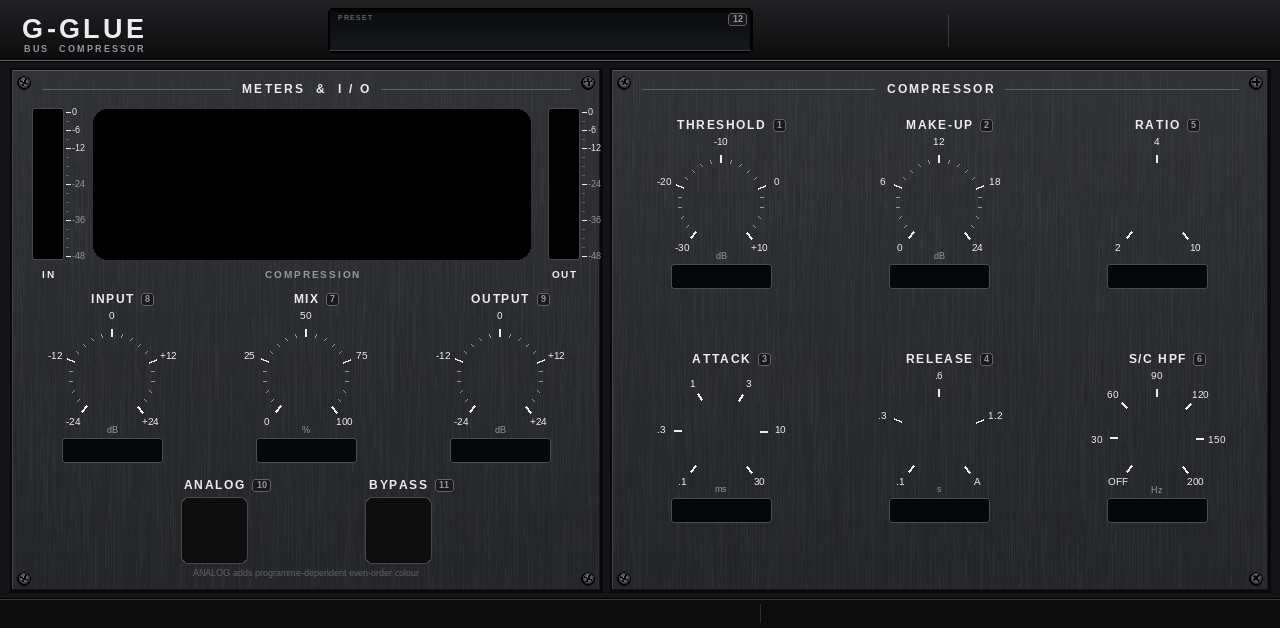
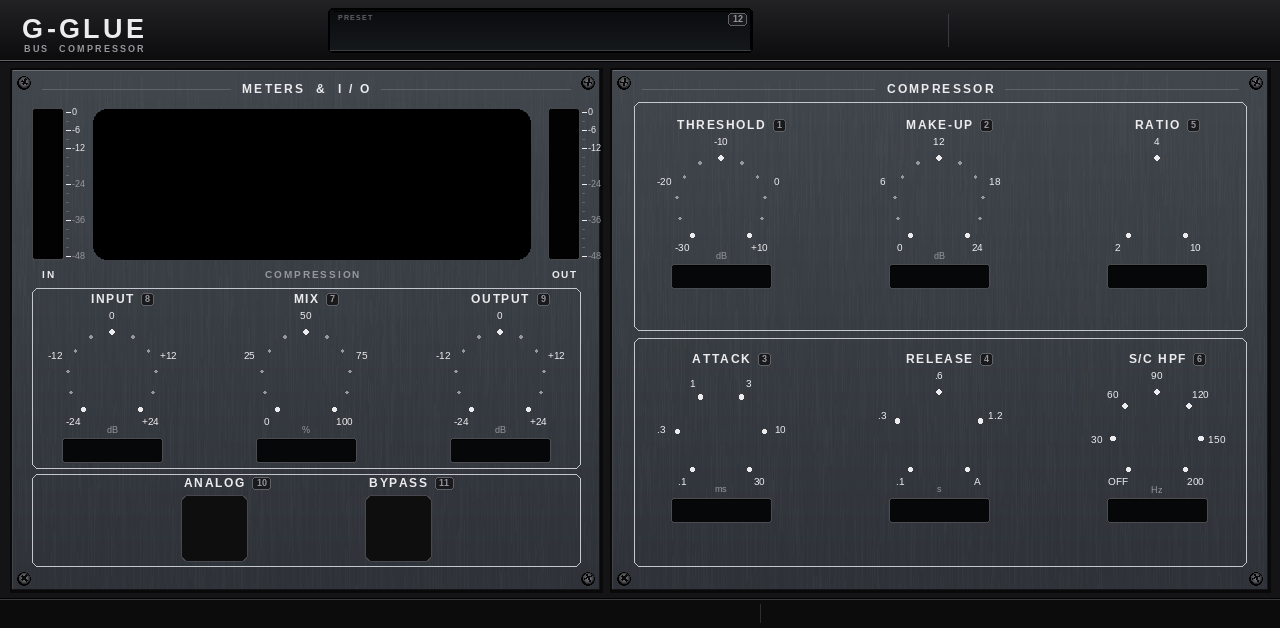
G-Glue MPC skin: classic large-format console styling
Slate blue-grey console modules, smooth ribbed grey knobs with large flat colour caps and white
pointer lines, printed dot scales, white legend frames around control groups, translucent square
push switches that light from behind. Original artwork, no third-party names or logos; controls,
wiring and MPC filmstrip rules unchanged.

Claude-Session: https://claude.ai/code/session_01XRqyjua6wzinB9NqNDDbhg

diff --git a/G-Glue/MPC/tools/make_skin.py b/G-Glue/MPC/tools/make_skin.py
@@ -48,7 +48,9 @@ def spaced(d, x, y, s, f, fill, track=1.0, anchor="l"):
     return total
 
 # ---------------------------------------------------------------- palette (console)
-EDGE, SEAM = (86, 88, 93), (9, 9, 10)
+EDGE, SEAM = (104, 110, 118), (9, 9, 10)
+SLATE_T, SLATE_B = (66, 71, 78), (47, 51, 57)               # console slate blue-grey
+FRAME = (196, 200, 206)                                     # white legend frames
 PRINT, DIM, FAINT = (236, 236, 238), (150, 152, 158), (96, 98, 104)
 LED_RED, LED_AMBER, LED_GREEN = (255, 58, 38), (255, 178, 42), (72, 224, 112)
 CAPS = {"red": (196, 50, 42), "blue": (46, 96, 172), "grey": (160, 162, 166), "green": (58, 138, 84),
@@ -83,7 +85,7 @@ SCALE = {"threshold": ["-30", "-20", "-10", "0", "+10"], "makeup": ["0", "6", "1
          "mix": ["0", "25", "50", "75", "100"], "input": ["-24", "-12", "0", "+12", "+24"], "output": ["-24", "-12", "0", "+12", "+24"]}
 STEPS = {"attack": 6, "release": 5, "ratio": 3, "scfilter": 7}
 UNITS = {"threshold": "dB", "makeup": "dB", "attack": "ms", "release": "s", "ratio": "", "scfilter": "Hz", "mix": "%", "input": "dB", "output": "dB"}
-SWITCHES = {"analog": ("ANALOG", LED_AMBER, 214, 500, 10), "bypass": ("BYPASS", LED_RED, 398, 500, 11)}   # square 60 px caps
+SWITCHES = {"analog": ("ANALOG", LED_AMBER, 214, 498, 10), "bypass": ("BYPASS", LED_RED, 398, 498, 11)}   # square 60 px caps
 SW = 60
 ANG0, ANG1 = -140.0, 140.0
 def ang_xy(cx, cy, r, deg):
@@ -99,46 +101,45 @@ TB = {"prev": (284, 12, 40, 36), "browse": (330, 10, 420, 40), "next": (756, 12,
 
 # ---------------------------------------------------------------- knobs (one filmstrip per cap colour)
 def knob_strip(cap):
-    s = KS * SS; c = s / 2; R = s * 0.40
+    """large-format console knob: smooth ribbed grey body, flat coloured cap, white pointer line"""
+    s = KS * SS; c = s / 2; R = s * 0.41
     base = Image.new("RGBA", (s, s), (0, 0, 0, 0))
     sh = Image.new("RGBA", (s, s), (0, 0, 0, 0))
-    ImageDraw.Draw(sh).ellipse([c - R * 1.04, c - R * 1.0 + s * 0.045, c + R * 1.04, c + R * 1.04 + s * 0.045], fill=(0, 0, 0, 200))
-    base.alpha_composite(sh.filter(ImageFilter.GaussianBlur(s * 0.035)))
+    ImageDraw.Draw(sh).ellipse([c - R * 1.02, c - R * 0.96 + s * 0.05, c + R * 1.02, c + R * 1.06 + s * 0.05], fill=(0, 0, 0, 210))
+    base.alpha_composite(sh.filter(ImageFilter.GaussianBlur(s * 0.03)))
     d = ImageDraw.Draw(base)
-    for yy in range(int(c - R), int(c + R) + 1):                # skirt: satin black, lit from above
+    for yy in range(int(c - R), int(c + R) + 1):                # cylinder side: grey, lit from above
         k = min(1.0, max(0.0, (yy - (c - R)) / (2 * R))); dx = math.sqrt(max(0.0, R * R - (yy - c) ** 2))
-        d.line([c - dx, yy, c + dx, yy], fill=rgba(mix((74, 75, 80), (10, 10, 11), k ** 0.8)))
-    rb = R * 0.80                                               # tapered body top
-    body = Image.new("RGBA", (s, s), (0, 0, 0, 0)); bd = ImageDraw.Draw(body)
-    for i in range(48, 0, -1):
-        t = i / 48; r = rb * t
-        bd.ellipse([c - r, c - r - rb * 0.05 * (1 - t), c + r, c + r - rb * 0.05 * (1 - t)], fill=rgba(mix((22, 22, 24), (58, 59, 63), (1 - t) ** 2)))
-    rc = R * 0.52                                               # coloured cap, slightly domed
+        d.line([c - dx, yy, c + dx, yy], fill=rgba(mix((92, 95, 100), (24, 25, 28), k ** 0.9)))
+    rt = R * 0.90                                               # flat top face
+    top = Image.new("RGBA", (s, s), (0, 0, 0, 0)); td = ImageDraw.Draw(top)
+    for i in range(50, 0, -1):
+        t = i / 50; r = rt * t
+        td.ellipse([c - r, c - r - rt * 0.04 * (1 - t), c + r, c + r - rt * 0.04 * (1 - t)], fill=rgba(mix((40, 42, 46), (74, 77, 82), (1 - t) ** 1.6)))
+    rc = R * 0.64                                               # large flat coloured cap
     col = CAPS[cap]
     capim = Image.new("RGBA", (s, s), (0, 0, 0, 0)); cd = ImageDraw.Draw(capim)
+    cd.ellipse([c - rc - SS, c - rc - SS, c + rc + SS, c + rc + SS], fill=rgba(mix(col, (0, 0, 0), 0.55)))
     for i in range(40, 0, -1):
         t = i / 40; r = rc * t
-        ox, oy = c - rc * 0.22 * (1 - t), c - rc * 0.30 * (1 - t)
-        cd.ellipse([ox - r, oy - r, ox + r, oy + r], fill=rgba(mix(mix(col, (0, 0, 0), 0.30), mix(col, (255, 255, 255), 0.42), (1 - t) ** 1.5)))
+        cd.ellipse([c - r, c - r - rc * 0.05 * (1 - t), c + r, c + r - rc * 0.05 * (1 - t)],
+                   fill=rgba(mix(mix(col, (0, 0, 0), 0.12), mix(col, (255, 255, 255), 0.30), (1 - t) ** 2.2)))
+    line_col = (24, 24, 26) if cap in ("grey", "yellow") else PRINT
     strip = Image.new("RGBA", (KS, KS * FRAMES), (0, 0, 0, 0))
     for f in range(FRAMES):
         im = base.copy(); d = ImageDraw.Draw(im)
         deg = ANG0 + (ANG1 - ANG0) * f / NUMFRAMES
-        for i in range(60):                                     # knurling ridges turn with the knob
-            a = deg + i * 6
-            x0, y0 = ang_xy(c, c, R * 0.86, a); x1, y1 = ang_xy(c, c, R * 1.0, a)
-            d.line([x0, y0, x1, y1], fill=(0, 0, 0, 170), width=int(SS * 0.9))
-            x0, y0 = ang_xy(c, c, R * 0.88, a + 2.2); x1, y1 = ang_xy(c, c, R * 0.99, a + 2.2)
-            d.line([x0, y0, x1, y1], fill=(255, 255, 255, 22), width=int(SS * 0.6))
-        im.alpha_composite(body)
+        for i in range(90):                                     # fine ribs on the side (turn with the knob)
+            a = deg + i * 4
+            x0, y0 = ang_xy(c, c, R * 0.92, a); x1, y1 = ang_xy(c, c, R * 0.995, a)
+            d.line([x0, y0, x1, y1], fill=(0, 0, 0, 90), width=max(1, int(SS * 0.6)))
+        im.alpha_composite(top); im.alpha_composite(capim)
         d = ImageDraw.Draw(im)
-        d.ellipse([c - rb, c - rb, c + rb, c + rb], outline=(255, 255, 255, 30), width=SS)
-        x0, y0 = ang_xy(c, c, rc * 1.05, deg); x1, y1 = ang_xy(c, c, rb * 0.97, deg)     # pointer on the body
-        d.line([x0, y0, x1, y1], fill=rgba(PRINT), width=int(SS * 2.6))
-        im.alpha_composite(capim)
-        d = ImageDraw.Draw(im)
-        x0, y0 = ang_xy(c, c, rc * 0.15, deg); x1, y1 = ang_xy(c, c, rc * 0.92, deg)     # line across the cap
-        d.line([x0, y0, x1, y1], fill=rgba(PRINT if cap in ("black", "blue", "red", "green") else (24, 24, 26)), width=int(SS * 1.8))
+        d.ellipse([c - rt, c - rt, c + rt, c + rt], outline=(255, 255, 255, 34), width=SS)
+        x0, y0 = ang_xy(c, c, rc * 1.06, deg); x1, y1 = ang_xy(c, c, rt * 0.97, deg)      # pointer on the grey top
+        d.line([x0, y0, x1, y1], fill=rgba(PRINT), width=int(SS * 2.4))
+        x0, y0 = ang_xy(c, c, rc * 0.10, deg); x1, y1 = ang_xy(c, c, rc * 0.94, deg)      # and across the cap
+        d.line([x0, y0, x1, y1], fill=rgba(line_col), width=int(SS * 2.0))
         strip.paste(im.resize((KS, KS), Image.LANCZOS), (0, f * KS))
     return strip
 
@@ -247,25 +248,23 @@ def led_tiles():
 
 # ---------------------------------------------------------------- switches and toolbar buttons
 def square_switch(on, led):
-    """console push switch: square cap with a lens that lights up"""
+    """console push switch: a square translucent coloured cap that lights up from behind"""
     s = SS; w = SW; im = Image.new("RGBA", (w * s, w * s), (0, 0, 0, 0)); d = ImageDraw.Draw(im)
-    d.rounded_rectangle([0, 0, w * s - 1, w * s - 1], radius=5 * s, fill=rgba((8, 8, 9)))
+    d.rounded_rectangle([0, 0, w * s - 1, w * s - 1], radius=4 * s, fill=rgba((6, 6, 7)))           # bezel cut-out
     off = int(1.5 * s) if on else 0
-    cap = Image.new("RGBA", im.size, (0, 0, 0, 0)); cd = ImageDraw.Draw(cap)
-    for yy in range(4 * s, (w - 4) * s):
-        k = (yy - 4 * s) / ((w - 8) * s); cd.line([4 * s, yy + off, (w - 4) * s, yy + off], fill=rgba(mix((92, 94, 99), (40, 41, 44), k)))
-    mk = Image.new("L", im.size, 0); ImageDraw.Draw(mk).rounded_rectangle([4 * s, 4 * s + off, (w - 4) * s, (w - 4) * s + off], radius=4 * s, fill=255)
-    im.paste(cap, (0, 0), mk); d = ImageDraw.Draw(im)
-    d.rounded_rectangle([4 * s, 4 * s + off, (w - 4) * s, (w - 4) * s + off], radius=4 * s, outline=(255, 255, 255, 46), width=s)
-    lx0, ly0, lx1, ly1 = 12 * s, 14 * s + off, (w - 12) * s, 26 * s + off
+    x0, y0, x1, y1 = 6 * s, 6 * s + off, (w - 6) * s, (w - 6) * s + off
     if on:
-        g = Image.new("RGBA", im.size, (0, 0, 0, 0)); ImageDraw.Draw(g).rounded_rectangle([lx0 - 4 * s, ly0 - 4 * s, lx1 + 4 * s, ly1 + 4 * s], radius=4 * s, fill=rgba(led, 160))
+        g = Image.new("RGBA", im.size, (0, 0, 0, 0)); ImageDraw.Draw(g).rounded_rectangle([x0 - 3 * s, y0 - 3 * s, x1 + 3 * s, y1 + 3 * s], radius=4 * s, fill=rgba(led, 150))
         im.alpha_composite(g.filter(ImageFilter.GaussianBlur(4 * s))); d = ImageDraw.Draw(im)
-        d.rounded_rectangle([lx0, ly0, lx1, ly1], radius=2 * s, fill=rgba(mix(led, (255, 255, 255), 0.25)))
-        d.rounded_rectangle([lx0 + 2 * s, ly0 + s, lx1 - 2 * s, ly0 + 4 * s], radius=s, fill=(255, 255, 255, 120))
-    else:
-        d.rounded_rectangle([lx0, ly0, lx1, ly1], radius=2 * s, fill=rgba(mix(led, (0, 0, 0), 0.78)))
-    d.rounded_rectangle([lx0, ly0, lx1, ly1], radius=2 * s, outline=(0, 0, 0, 200), width=s)
+    top_c = mix(led, (255, 255, 255), 0.45) if on else mix(led, (0, 0, 0), 0.62)
+    bot_c = led if on else mix(led, (0, 0, 0), 0.80)
+    cap = Image.new("RGBA", im.size, (0, 0, 0, 0)); cd = ImageDraw.Draw(cap)
+    for yy in range(y0, y1):
+        k = (yy - y0) / (y1 - y0); cd.line([x0, yy, x1, yy], fill=rgba(mix(top_c, bot_c, k)))
+    mk = Image.new("L", im.size, 0); ImageDraw.Draw(mk).rounded_rectangle([x0, y0, x1, y1], radius=3 * s, fill=255)
+    im.paste(cap, (0, 0), mk); d = ImageDraw.Draw(im)
+    d.rounded_rectangle([x0, y0, x1, y1], radius=3 * s, outline=(0, 0, 0, 180), width=s)
+    d.rounded_rectangle([x0 + 3 * s, y0 + 2 * s, x1 - 3 * s, y0 + 8 * s], radius=2 * s, fill=(255, 255, 255, 70 if on else 26))   # gloss
     return im.resize((w, w), Image.LANCZOS)
 
 def tool_button(lab, w, h, icon=None, accent=None):
@@ -301,12 +300,12 @@ def module(im, box, title):
     x0, y0, x1, y1 = box; d = ImageDraw.Draw(im)
     d.rectangle([x0 - 2, y0 - 2, x1 + 2, y1 + 2], fill=SEAM)
     face = Image.new("RGB", (x1 - x0, y1 - y0)); fd = ImageDraw.Draw(face)
-    for y in range(y1 - y0): fd.line([0, y, x1 - x0, y], fill=mix((50, 51, 55), (37, 38, 41), y / (y1 - y0)))
+    for y in range(y1 - y0): fd.line([0, y, x1 - x0, y], fill=mix(SLATE_T, SLATE_B, y / (y1 - y0)))
     random.seed(x0)
     tex = Image.new("RGBA", face.size, (0, 0, 0, 0)); td = ImageDraw.Draw(tex)
     for _ in range(face.size[0] * face.size[1] // 60):           # vertical brushing
         x = random.randrange(face.size[0]); y = random.randrange(face.size[1]); ln = random.randint(10, 90)
-        td.line([x, y, x, min(face.size[1], y + ln)], fill=(255, 255, 255, random.randint(3, 8)) if random.random() < 0.5 else (0, 0, 0, random.randint(5, 12)))
+        td.line([x, y, x, min(face.size[1], y + ln)], fill=(255, 255, 255, random.randint(2, 5)) if random.random() < 0.5 else (0, 0, 0, random.randint(3, 7)))
     face.paste(tex, (0, 0), tex)
     im.paste(face, (x0, y0)); d = ImageDraw.Draw(im)
     d.line([x0, y0, x1 - 1, y0], fill=EDGE); d.line([x0, y0, x0, y1 - 1], fill=(66, 68, 72))
@@ -359,13 +358,12 @@ def background():
         kx, ky = knob_centre(key)
         tw = spaced(d, kx, top - 22, cap, font(12), PRINT, track=1.6, anchor="c")
         qbadge(d, kx + tw / 2 + 8, top - 21, q)
-        steps = STEPS.get(key, 21)
-        for i in range(steps):
+        steps = STEPS.get(key, 11)
+        for i in range(steps):                                  # printed dot scale
             a = ANG0 + (ANG1 - ANG0) * i / (steps - 1)
             major = key in STEPS or i % 5 == 0
-            r0, r1 = KS / 2 + 4, KS / 2 + (11 if major else 7)
-            x0, y0 = ang_xy(kx, ky, r0, a); x1, y1 = ang_xy(kx, ky, r1, a)
-            d.line([x0, y0, x1, y1], fill=PRINT if major else DIM, width=2 if major else 1)
+            x, y = ang_xy(kx, ky, KS / 2 + 8, a); r = 2.2 if major else 1.4
+            d.ellipse([x - r, y - r, x + r, y + r], fill=PRINT if major else DIM)
         labs = SCALE[key]
         for i, t in enumerate(labs):
             a = ANG0 + (ANG1 - ANG0) * i / (len(labs) - 1)
@@ -375,12 +373,15 @@ def background():
         bx0, by0 = knob_box(key)
         d.rounded_rectangle([bx0 + 25, by0 + 124, bx0 + CW - 25, by0 + 148], radius=3, fill=(6, 7, 8), outline=(74, 76, 80))
         d.line([bx0 + 27, by0 + 125, bx0 + CW - 27, by0 + 125], fill=(0, 0, 0))
+    def frame(x0, y0, x1, y1):
+        d.rounded_rectangle([x0, y0, x1, y1], radius=6, outline=FRAME, width=1)
+    frame(634, 102, 1246, 330); frame(634, 338, 1246, 566)          # compressor rows
+    frame(32, 288, 580, 468); frame(32, 474, 580, 566)              # I/O knobs, switches
     for key, (cap, led, cx, y, q) in SWITCHES.items():                                                      # switches
         tw = spaced(d, cx, y - 22, cap, font(12), PRINT, track=1.6, anchor="c")
         qbadge(d, cx + tw / 2 + 8, y - 21, q)
         d.rounded_rectangle([cx - SW / 2 - 3, y - 3, cx + SW / 2 + 3, y + SW + 3], radius=7, fill=(70, 72, 77))
         d.rounded_rectangle([cx - SW / 2 - 2, y - 2, cx + SW / 2 + 2, y + SW + 2], radius=6, fill=(14, 14, 15))
-    text_c(d, 306, 500 + SW + 14, "ANALOG adds programme-dependent even-order colour", font(9, False), FAINT)
     d.rectangle([0, FOOT_Y, W, H], fill=(12, 12, 13)); d.line([0, FOOT_Y, W, FOOT_Y], fill=(0, 0, 0))     # footer
     d.line([0, FOOT_Y + 1, W, FOOT_Y + 1], fill=(56, 58, 62))
     d.line([760, FOOT_Y + 6, 760, H - 6], fill=(44, 46, 50))
